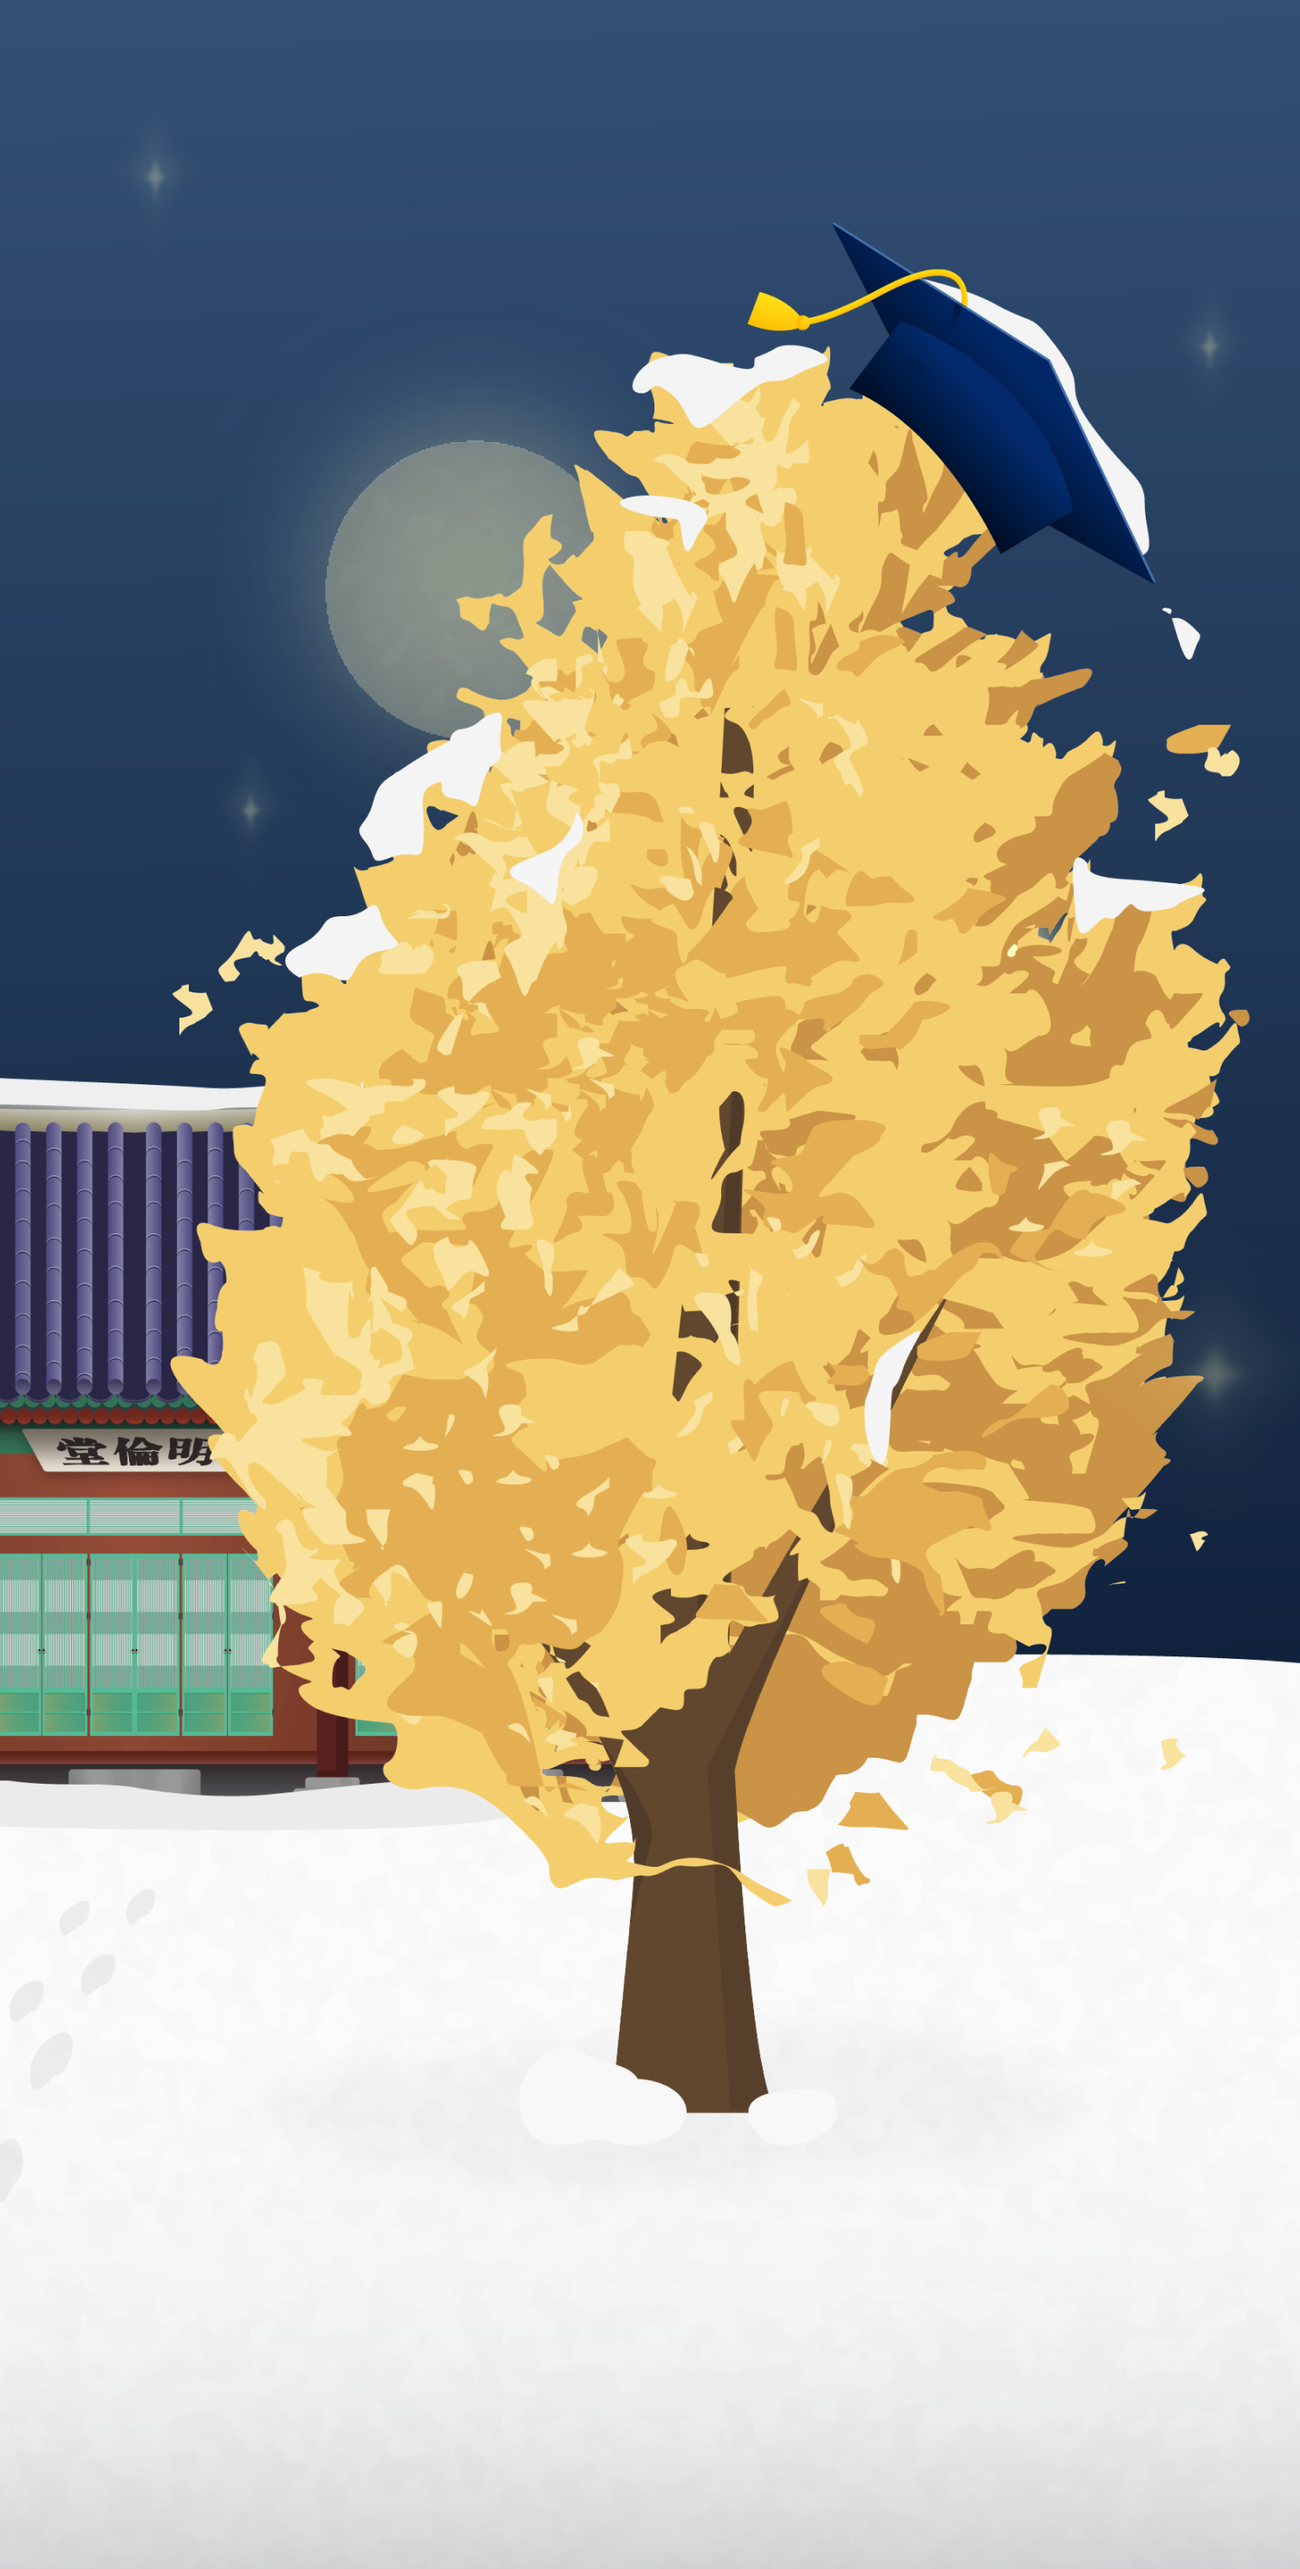
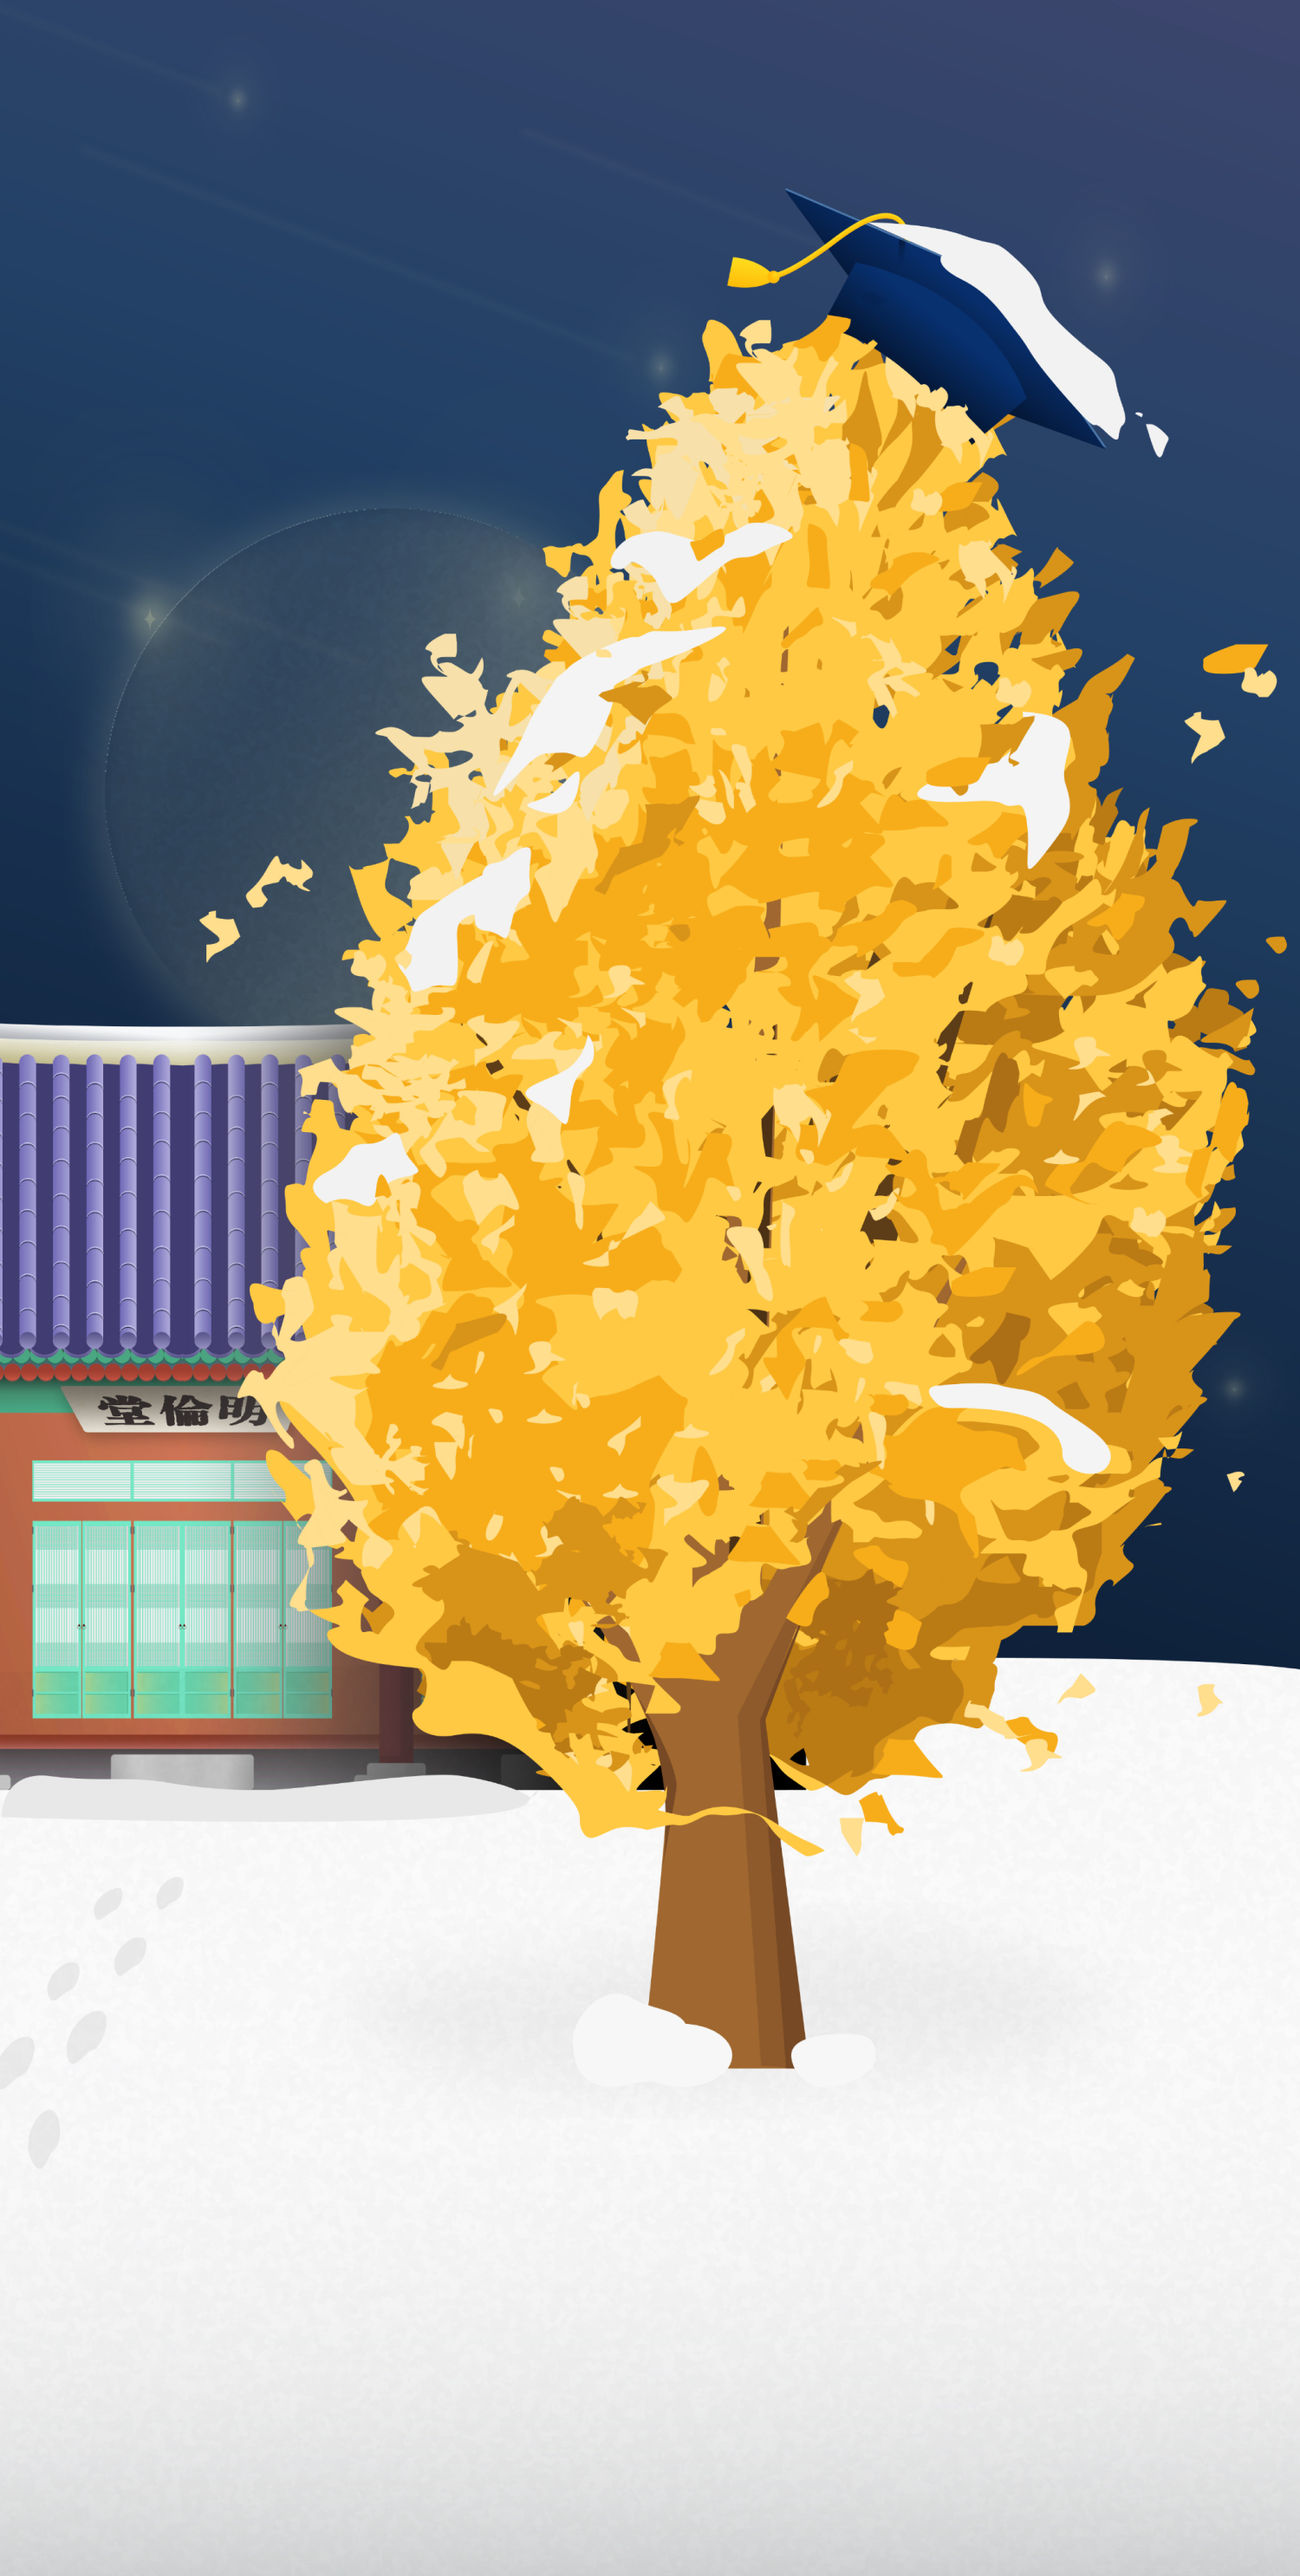
트리 통합 및 시간별 설정

diff --git a/front/src/pages/Tree.jsx b/front/src/pages/Tree.jsx
@@ -2,8 +2,10 @@ import React from 'react';
 import { Link } from 'react-router-dom';
 import styled from 'styled-components';
 import { useRecoilValue } from 'recoil';
-import { temporaryTreeAtom } from '../Atom';
+import { ownerNameAtom, countAtom } from '../Atom';
 import TreeNight from '../assets/treenight.png';
+import TreeDay from '../assets/treeday.png';
+import TreeSunset from '../assets/treesunset.png';
 import TreeComponent from '../components/TreeComponent';
 
 const Container = styled.div`
@@ -18,9 +20,9 @@ const Dday = styled.p`
     font-weight: 400;
     font-size: 20px;
     line-height: 25px;
-
-    color: #f7f7f7;
-    margin: 20px;
+    color: #072a60;
+    margin: 10px;
+    text-align: center;
 `;
 const TreeBackground = styled.img`
     position: absolute;
@@ -74,23 +76,54 @@ export const StyledLink = styled(Link)`
         color: #7c7c7c;
     }
 `;
-
+const Count = styled.p`
+    font-family: 'Jua';
+    font-style: normal;
+    font-weight: 400;
+    font-size: 20px;
+    line-height: 25px;
+    color: #f7f7f7;
+    margin: 20px;
+`;
+function Time() {
+    const today = new Date();
+    const hours = today.getHours();
+    if (hours > 19 || hours < 5) {
+        return <TreeBackground src={TreeNight} alt="밤 배경 은행나무" />;
+    }
+    if (hours <= 16 && hours >= 9) {
+        return <TreeBackground src={TreeDay} alt="낮 배경 은행나무" />;
+    }
+    return <TreeBackground src={TreeSunset} alt="노을 배경 은행나무" />;
+}
 function Tree() {
-    const temporaryTree = useRecoilValue(temporaryTreeAtom);
+    const ownerName = useRecoilValue(ownerNameAtom);
+    const count = useRecoilValue(countAtom);
+
     return (
         <Container>
-            {console.log(temporaryTree)}
-            <TreeBackground src={TreeNight} alt="밤 배경 은행나무" />
-            <Dday>쪽지 오픈 D-7</Dday>
-            {/* <p>{ownerName} 님의 나무에 n개의 편지가 달려있습니다.</p> */}
+            <Count>
+                {ownerName} 님의 나무에 {count}개의 메시지
+            </Count>
+
+            <Time />
             <TreeComponent />
             <Buttons>
+                {/* 외부 이용자일 때 */}
                 <StyledLink to={{ pathname: `/write/*` }}>
                     <h2>쪽지 남기기</h2>
                 </StyledLink>
                 <StyledLink to={{ pathname: `/signup/*` }}>
                     <h3>나도 계정 만들기</h3>
                 </StyledLink>
+                {/* 계정 주인일 때 */}
+                <StyledLink to={{ pathname: `/list/*` }}>
+                    <h2>받은 쪽지 목록</h2>
+                </StyledLink>
+                <StyledLink>
+                    <h3>공유하기</h3>
+                </StyledLink>
+                <Dday>쪽지 오픈 D-7</Dday>
             </Buttons>
         </Container>
     );

diff --git a/front/src/pages/Main.jsx b/front/src/pages/Main.jsx
@@ -63,7 +63,7 @@ export const StyledLink = styled(Link)`
 `;
 const Snow = styled.img`
     position: absolute;
-    top: 0px;
+    top: 62px;
     left: 0px;
     pointer-events: none;
     z-index: 1;
